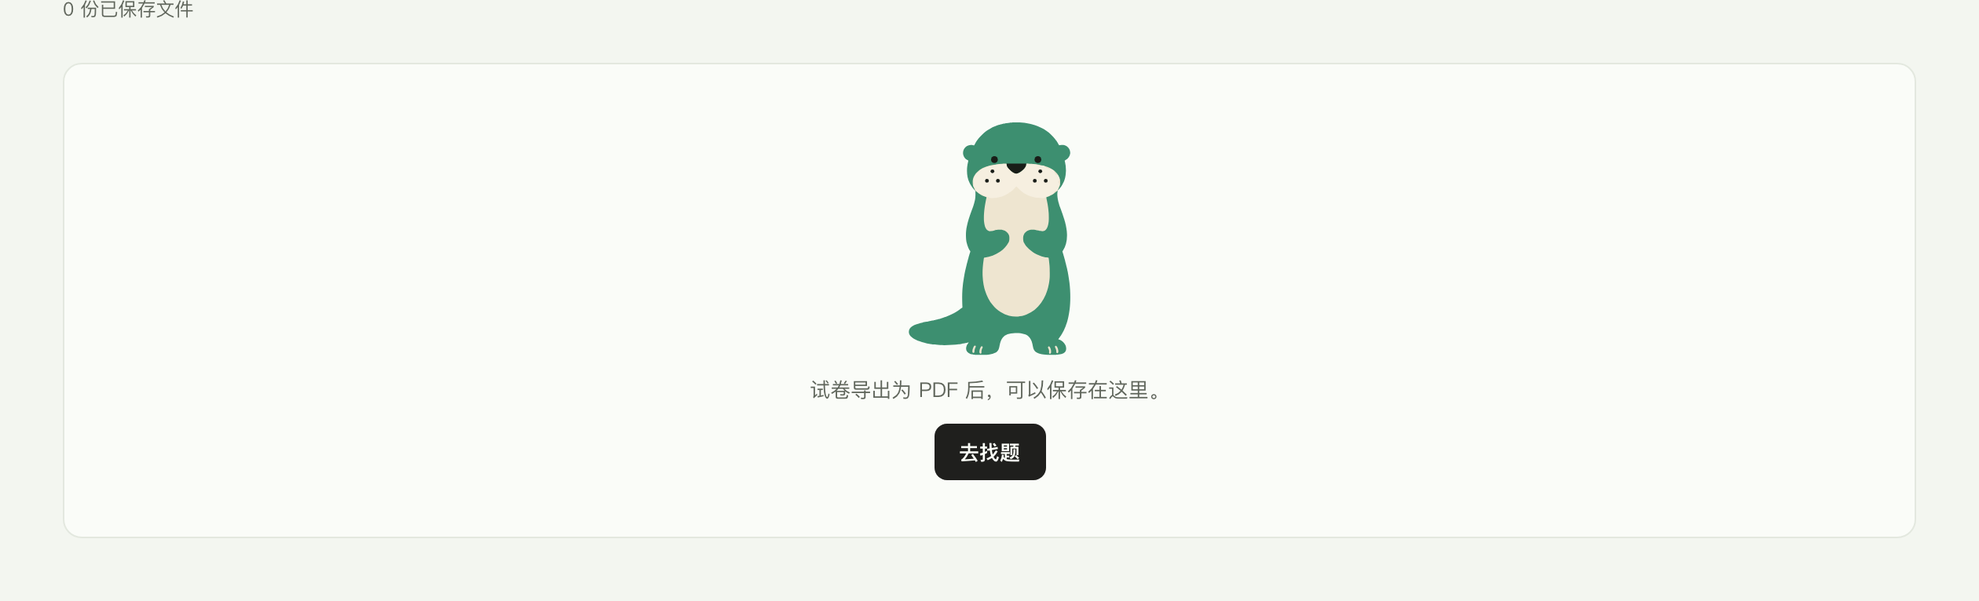
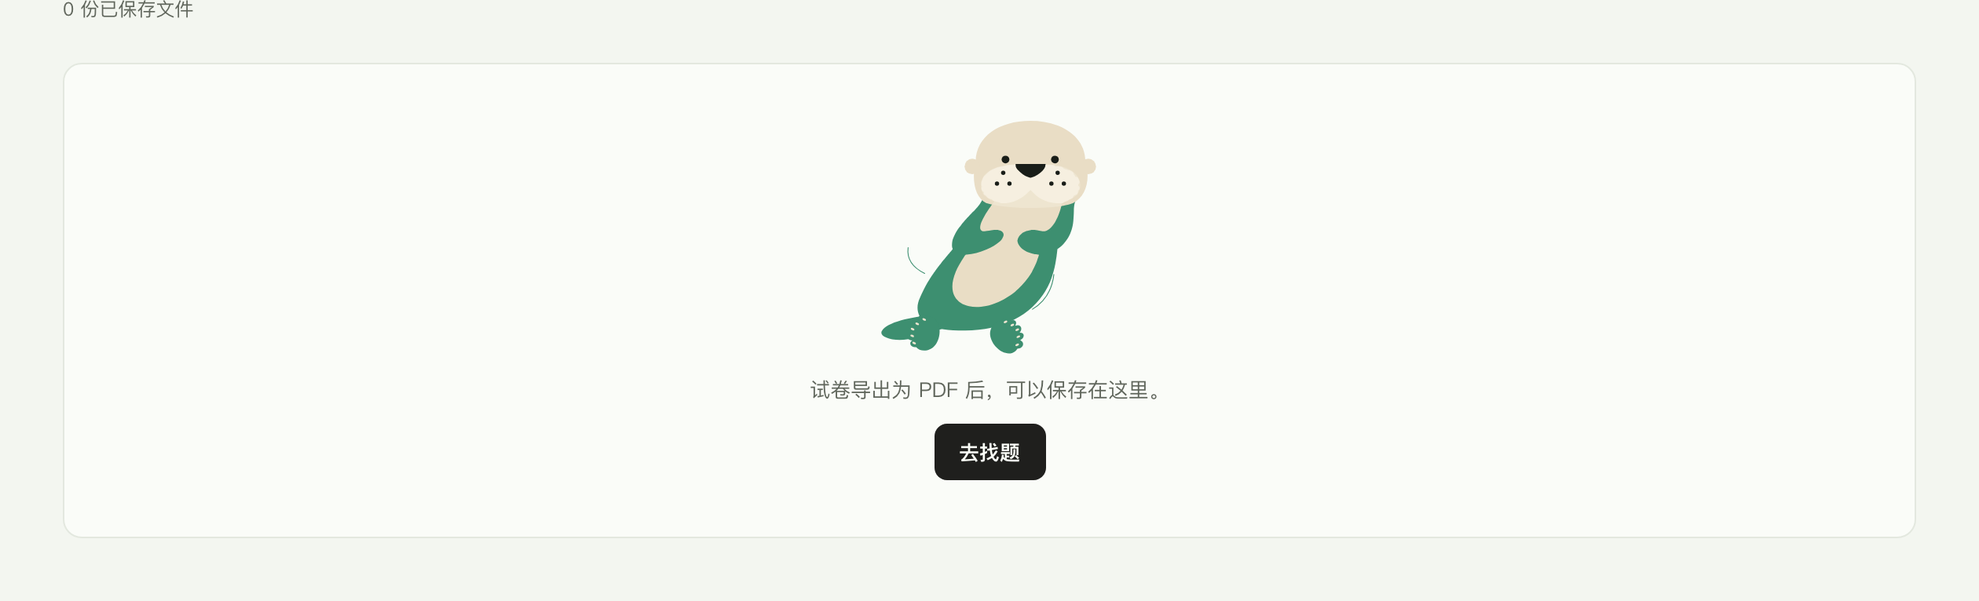
brand: Swap in the sea otter master with the Owner's whiter-half light colour and reshoot the real-page evidence

Changed region(s): [[0.4333, 0.1802, 0.5571, 0.6005]]

diff --git a/BRAND.md b/BRAND.md
@@ -115,13 +115,16 @@ Owner 2026-09-15 给图标定的理念是「简约、圆润但同时清爽、语
 
 | 名字 | 色值 | 差事 | 状态 |
 | --- | --- | --- | --- |
-| 竹青 | `#3D8F70` | 品牌主色：海獭身体、标志图形、插画主体 | 已定 |
+| 竹青 | `#3D8F70` | 品牌主色：海獭的背、手臂、尾巴和脚，只露头时垫的圆底和 App 图标底，标志图形、插画主体 | 已定 |
 | 深竹青 | `#2C6E56` | 要承载文字的品牌色：头像圆（白字）等位置。即网站现有的身份色 | 提案 |
-| 暖米白 | `#F6EFE0` | 第二色：海獭的脸、App 图标底 | 已定 |
-| 米白 | `#EEE5D0` | 海獭的肚皮和爪尖 | 已定 |
+| 沙白 | `#E9DDC5` | 海獭的毛色浅的那一片：头、耳朵、喉咙、胸口和肚子 | 已定（Owner 2026-10-13，第 28 条） |
+| 暖米白 | `#F6EFE0` | 海獭口鼻和脸颊的里层 | 已定 |
+| 米白 | `#EEE5D0` | 海獭口鼻的外圈、后脚的趾尖 | 已定 |
 | 墨 | `#191D18` | 海獭的眼睛点、鼻子、胡须点、状态插画里的石子；与界面正文同色 | 已定 |
 
 竹青和深竹青的 OKLCH 色相都在 166° 左右（明度 0.59 对 0.49），是同一条色阶上的两档。所以网站身份色不用在「跟着提亮」和「保持不变」之间二选一：竹青管图形，深竹青管要写字的地方。
+
+沙白、米白和暖米白的 OKLCH 色相都在 85°–88°（明度 0.90、0.92、0.95），是同一条米白色阶上的三档，沙白最深。沙白是 Owner 2026-10-13 从 D2 的浅沙 `#DCCBAA` 往暖米白走一半选定的（「往白 ½」，§4.2）；名字是 Droid 起的。2026-10-13 换成海獭版母版时，三个浅色的差事一起换了：原来是「暖米白：海獭的脸、App 图标底；米白：海獭的肚皮和爪尖」。
 
 实测对比度（WCAG）：
 
@@ -130,8 +133,11 @@ Owner 2026-09-15 给图标定的理念是「简约、圆润但同时清爽、语
 | 竹青 对 白 / 桌面 `#F3F6F0` / 内容面 `#FAFCF8` | 3.92 / 3.59 / 3.79 | 只够图形和大字（≥ 3:1），不能写正文 |
 | 深竹青 对 白 / 桌面 | 6.05 / 5.55 | 可以写字 |
 | 白字放在竹青上 | 3.79 | 小字不合格；带字的品牌色底一律用深竹青 |
-| 暖米白 对 桌面 | 1.05 | 几乎一样亮：海獭的米白部分永远要被竹青包住，不直接贴在桌面底上 |
-| 眼睛点（墨）对 竹青 | 4.36 | 图形可辨。原来的暖米白眼睛点是 3.42，又挨着同色的口鼻区，150px 时已经难认（M 画板） |
+| 暖米白 对 桌面 | 1.05 | 几乎一样亮：暖米白和米白不直接贴在桌面底上，海獭版里它们只在口鼻，四周由沙白托着（§4.7） |
+| 沙白 对 桌面 / 内容面 | 1.23 / 1.30 | 全身放在页面上时，头和耳朵的边看得见，但弱 |
+| 沙白 对 竹青 | 2.91 | 只露头时垫竹青，头的边清楚 |
+| 暖米白 / 米白 对 沙白 | 1.17 / 1.07 | 口鼻靠暖米白里层看得出；米白外圈和头几乎一样亮 |
+| 眼睛点（墨）对 沙白 | 12.69 | 清楚。海獭版的眼睛长在沙白的头上；水獭 v0 的眼睛在竹青上，是 4.36（原来的暖米白眼睛点是 3.42，又挨着同色的口鼻区，150px 时已经难认，M 画板） |
 | 鼻子（墨）对 暖米白 | 14.91 | 清楚 |
 
 **色必须有差事 · 已定**（原 DESIGN.md §2，2026-09-04 起执行，清点表 D30）：每一处非中性色都要能回答「它在帮老师做什么」，答不出就不上色。这条原来管界面；推到标志、海獭和插画是提案，上表的「差事」一栏就是照这条写的。
@@ -141,9 +147,9 @@ Owner 2026-09-15 给图标定的理念是「简约、圆润但同时清爽、语
 用色规则（提案）：
 
 - 竹青只给品牌图形：标志、海獭、插画。不给按钮、选中态、焦点环、链接，与 DESIGN.md §2「墨做动作」「墨绿只做身份」一致。
-- 暖米白和米白只用在角色和插画里，不做界面表面色。界面表面仍用 DESIGN.md §2 的 Daydream 桌面色阶；Owner 2026-08-28 实测后判定暖米底过暖（原 DESIGN.md「暖纸边界」，已删，清点表 D33）。
+- 沙白、暖米白和米白只用在角色和插画里，不做界面表面色。界面表面仍用 DESIGN.md §2 的 Daydream 桌面色阶；Owner 2026-08-28 实测后判定暖米底过暖（原 DESIGN.md「暖纸边界」，已删，清点表 D33）。
 - 语义色（成功、提醒、危险）不进品牌色，也不进海獭和插画。题型六色已删除（Owner 2026-10-13，清点表 D03），历史留在 git。
-- 不新增色相。插画需要更多层次时，先用这几色之间的组合；确实不够时在竹青色阶上加档。
+- 不新增色相。插画需要更多层次时，先用这几色之间的组合；确实不够时在竹青色阶或米白色阶上加档。
 
 ### 1.6 克制：哪里不出现品牌 · 提案
 
@@ -246,11 +252,11 @@ Owner 2026-09-15 给图标定的理念是「简约、圆润但同时清爽、语
 
 ## 4. IP 形象：海獭
 
-<img src="design/brand-2026-10-13/mascot/otter-front.svg" width="180" alt="正面母版 v0（还是水獭的形体，海獭版在画）">
+<img src="design/brand-2026-10-13/mascot/otter-front.svg" width="180" alt="海獭版母版：正面，仰躺漂着"> <img src="design/brand-2026-10-13/mascot/otter-head.svg" width="96" alt="海獭版母版：头像，垫竹青圆底"> <img src="design/brand-2026-10-13/mascot/app-icon.svg" width="96" alt="海獭版母版：App 图标，竹青圆角底">
 
 ### 4.1 角色设定 · 部分已定
 
-- **物种 · 已定（Owner 2026-10-13）**：海獭。原来定的是水獭，泛指，不做海獭（第 2 条）。Owner 拿真实照片对照时指出，用石头当工具是海獭的习性；Droid 一查，本文件的来历和状态表里，石头和仰躺漂浮都是从海獭借来的。Owner 认为海獭的习性在正向引导上更有借鉴价值，定为海獭（第 24 条）。现在的母版 v0 还是照水獭画的；海獭版已选定 D2（第 27 条），浅色定了就换（§4.2）。
+- **物种 · 已定（Owner 2026-10-13）**：海獭。原来定的是水獭，泛指，不做海獭（第 2 条）。Owner 拿真实照片对照时指出，用石头当工具是海獭的习性；Droid 一查，本文件的来历和状态表里，石头和仰躺漂浮都是从海獭借来的。Owner 认为海獭的习性在正向引导上更有借鉴价值，定为海獭（第 24 条）。母版已在 2026-10-13 换成海獭版（第 27、28 条，§4.2）。
 - **来历 · 提案**：现实里的海獭潜到海底找吃的。海底常常又暗又浑，它主要靠灵敏的前爪和胡须去摸。浮上水面以后，它仰躺漂着，把肚皮当桌子，把捞上来的贝壳摆在上面，再拿一块石头敲开。海獭是少数会用工具的哺乳动物；顺手的那块石头用完不扔，收进前肢下面的皮袋里，下次再用。我们把这几件事变成它在产品里的工作：在题海里摸到对的题，摆开给老师看，再把好题收好（§1.1 一句话）。会用工具不等于替老师拿主意：留哪道题，仍由老师定（下面「使命」一条）。形象上胡须只画成墨点（§4.2）。还有一个现成的画面：海獭睡觉时有时手拉手，免得漂散，可以讲陪伴；但容易画甜，用不用到画状态时再定（§4.9）。物种改成海獭以前，这里还写了水獭爱把小石子在爪子间抛着玩；那是亚洲小爪水獭这类小型水獭的习性，状态 01 跟着改了（§4.4）。
 - **使命 · 提案**：海獭必须有差事。它出场是为了把看不见的 AI 过程演出来：找、翻、递、收，以及如实说没找到。没有差事就不出场。老师等待时陪一下，结果出来时交代一下。不教学，不打分，不替老师做决定。
 - **性格 · 提案**：安静、好奇、手巧（§1.3）。
@@ -258,11 +264,12 @@ Owner 2026-09-15 给图标定的理念是「简约、圆润但同时清爽、语
 
 ### 4.2 造型 · 部分已定
 
-- **母版 v0 · 已定**：v2 正面，`design/brand-2026-10-13/mascot/otter-front.svg`。2026-10-13 换上了 M 画板定下的眼睛（见下面「眼睛」一条），同一目录下四个母版文件（正面、头像、App 图标、捧石子变体）的眼睛图层一起换过。同一天又换上记忆点方向 A 定下的 A2 胡须点（见下面「胡须」和「记忆点」两条），四个母版的胡须图层一起换过，`evidence/` 里的三张真实页面截图也用新母版重拍了。物种改成海獭以后（第 24 条），v0 仍是母版，直到海獭版母版画好、Owner 确认。v0 是照水獭画的：尾巴粗长渐尖，圆顶，耳朵长在头顶两侧。海獭版从 v0 出发，脸、配色和七个图层带过去，改头、耳朵和尾巴（见下面「记忆点」里的「物种改成海獭以后」）。四个母版文件的标题和注释还写着「水獭」，换成海獭版时一起改。
-- **部位与配色 · 已定**：身体竹青；脸（口鼻和脸颊）暖米白；肚皮和爪尖米白；眼睛点、鼻子和胡须点墨。母版里每个部位一个图层，图层名就是部位名（body、face、belly、nose、claws、eyes、whiskers）。
+- **母版 · 已定（海獭版，Owner 2026-10-13，第 27、28 条）**：`design/brand-2026-10-13/mascot/` 下三个文件。`otter-front.svg` 是正面，仰躺漂着（F2）；`otter-head.svg` 是头像，裁到胸口，垫竹青圆底；`app-icon.svg` 是 App 图标，竹青圆角底。形体照 Astra 第 2 轮的 S+，毛色是 D2，浅色用往白 ½（下面「记忆点」里的「海獭版母版」）。三个文件由 Droid 从 Owner 比过的那份矢量生成，渲染出来和比对图逐像素一致，只改了文件里的 id、标题和注释；`evidence/` 的三张真实页面截图用新母版重拍了。图层：body（竹青的背、手臂和尾巴，加上沙白的头和两只耳朵），belly（沙白的喉咙、胸口和肚子），muzzle（口鼻外圈，米白：肚皮那块形状落在头里的部分，用头的轮廓裁出），face（口鼻和脸颊里层，暖米白），nose（宽鼻，墨），claws（全身图里是两只带趾的后脚，竹青加米白趾尖），eyes，whiskers，water（两条水线，只在全身图里，可以单独隐藏）；头像另有 disc（竹青圆底），App 图标另有 tile（竹青圆角底）。
+- **母版 v0 · 已换下**：v0 是照水獭画的 v2 正面：站着，尾巴粗长渐尖，圆顶，耳朵长在头顶两侧。v0 期间定下的 e5 眼睛和 A2 胡须点原样带进海獭版。v0 的四个文件（正面、头像、App 图标、捧石子变体）留在 git 历史里，最后一版在提交 `c36560bb`。
+- **部位与配色 · 已定（Owner 2026-10-13，第 27、28 条改）**：竹青只留在背、手臂、尾巴和脚上；头、耳朵、喉咙、胸口和肚子连成一片沙白；口鼻两层，外圈米白、里层暖米白；后脚趾尖米白；眼睛点、鼻子和胡须点墨。只露头时（顶栏、App 图标）垫竹青。原来是「身体竹青；脸（口鼻和脸颊）暖米白；肚皮和爪尖米白」。图层名见上面「母版」一条。
 - **眼睛 · 已定（Owner 2026-10-13，M 画板选 e5）**：大小和位置用 J 画板的预设 p2：放大 1.15 倍，两眼各往脸中线收 24、往下移 12（母版坐标，半径 35.8）。颜色从暖米白改成墨。原因：暖米白眼睛对竹青只有 3.42:1，又挨着正下方同色的口鼻区，放进真实页面后 150px 已经难认，16px 完全消失，脸上最显眼的就成了鼻子和胡须点；墨色眼睛到 16px 还看得见，和鼻子、胡须点一起组成一张脸。几档大小和位置的差别在真实页面里几乎看不出。
 - **胡须 · 已定（Owner 2026-10-13）**：胡须只画成口鼻上的墨点，不画胡须线（第 13 条：改文档，不改形象）。表情和动作里不再写「胡须前伸」「胡须轻动」。点的排法按记忆点方向 A 换成 A2（第 23 条）：每颊三个点排成一个 ∴（「所以」），一上两下，是等边三角形，点心距 116，点半径 20（母版坐标）；三角的中心和原来三个点的中心重合。
-- **空手 · 已定**：基础形象空手，两只爪子分开搭在胸前。捧石子的变体 `design/brand-2026-10-13/mascot/otter-front-pebble.svg` 只给状态插画作参考。
+- **空手 · 已定**：基础形象空手，两只爪子分开搭在胸前。海獭版仰躺漂着，两只前爪收在胸口。原来另有一个捧石子的变体，只给状态插画作参考；它是照水獭画的（站着捧石子），换母版时 Droid 把它从 `mascot/` 拿掉了，留在提交 `c36560bb` 里。海獭捧石头的样子到画状态插画时从海獭版母版画（§4.4）。
 - **记忆点 · 进行中（主题 1）**：Owner 2026-10-13 担心现在的样子没有记忆点，定为下一件事，排在三视图前面。
   - **诊断 · 提案（Droid，见 Paper「基线测试」画板）**：能被记住的只有颜色和米白口鼻。全身剪影靠那条粗长的尾巴，还看得出是水獭一类；头像剪影只剩圆顶加两侧小圆耳，小熊、海豹、仓鼠都说得通。头像到 32px 以下只剩眼睛、鼻子和米白口鼻；头像母版是方形裁切，放进圆形头像会切掉耳朵外缘。以后做教育 agent，最常出现的是头像，所以记忆点最好落在头上。单靠颜色也撑不住：教育类的绿色吉祥物，很多人先想到多邻国的绿猫头鹰。
   - **四个方向 · 按顺序一个一个试（顺序 Owner 定；物种改成海獭以后改过，见下面「物种改成海獭以后」）**，每个只改一处：
@@ -279,7 +286,7 @@ Owner 2026-09-15 给图标定的理念是「简约、圆润但同时清爽、语
     - D 探头出场：不改样子，规定它总从卡片或页面边缘探头，像刚浮出水面。§4.7 的登录页和 §4.4 的状态 05 已经在探头，要做的是把它定成所有出场的规矩。
       - **物种改成海獭以后**：排在海獭版母版之后试（Owner 2026-10-13，第 25 条）。提案（Droid）：海獭本来就住在水里，「从水里浮上来」比水獭更自然；如果仰躺漂着当基础形象，D 可能直接定成出场的规矩。
   - **物种改成海獭以后 · 已定（Owner 2026-10-13 同意 Droid 的提议，第 25 条）**：先把母版改成海獭，再接着试记忆点。顺序改成：A（已定）→ 海獭版母版（并入 B）→ D → 5 秒测试；C 作废。
-    - **海獭版母版 · 进行中（Owner 已选 D2，浅色再白多少还在比）**：从现在的母版（e5 眼睛、A2 胡须点）出发，照真实海獭改形体，最多来回两轮（第 20 条），第 2 轮是最后一轮。
+    - **海獭版母版 · 已定，已换（Owner 2026-10-13，第 27、28 条）**：从现在的母版（e5 眼睛、A2 胡须点）出发，照真实海獭改形体，最多来回两轮（第 20 条），第 2 轮是最后一轮。
       - **原样带过去**：眼睛、鼻子、∴ 胡须点，§1.5 的颜色，七个部位的图层名，平涂无描边，基础形象空手、爪子搭在胸前。
       - **要改**：头圆而宽，耳朵小而低，几乎贴着头；尾巴短而扁，不再粗长渐尖。这会改母版形体（§7 第 3 条）和头身比例（§4.9），所以要等 Owner 确认才换母版。
       - **要并排试**：脸的米白要不要往上扩，包住眼睛。真实海獭的脸常发白，但 v3、v4 的骨白脸包住眼睛像土匪（第 3 条），所以两版都画，放进真实页面再判断。后脚画不画成鳍。站着还是仰躺漂着当基础形象：海獭站着时没有长尾巴撑剪影，可能比水獭更难认；仰躺漂着、爪子搭在胸前，是海獭最认得出的样子。
@@ -295,7 +302,8 @@ Owner 2026-09-15 给图标定的理念是「简约、圆润但同时清爽、语
       - **已定（Owner 2026-10-13，第 27 条）**：Owner 看过两人的第 2 轮后说「那我决定是你推荐的那个」，即上一条 Droid 的建议：毛色用 D2，头、喉咙、胸口、肚子连成一片浅色，竹青只留在背、手臂、尾巴和脚上；只露头时（顶栏、App 图标）垫竹青；宽鼻、侧耳、尾巴、带趾的脚和 F2 照 Astra 的 S+；换成海獭版母版。
       - **D2 往白调 · Droid（2026-10-13）**：Droid 开始换母版时，Owner 又问：「W+ 跟 D2 之间有没有搞头？W+ 够白……D2 是沙白，能不能沙白多一点点，再白多一丢丢？」Droid 不动形体，只把那片浅色沿 OKLCH 从浅沙往暖米白走了三档：往白 ¼ `#E2D4B7`、往白 ½ `#E9DDC5`、米白 `#EEE5D0`。走到四分之三正好落在米白上，所以第三档直接用色板里的米白。三档和 D2、W+ 一起放进登录页 240px、空态 150px、顶栏 28px 和 App 图标。结果：只露头时垫着竹青，越白越清楚，对竹青从浅沙的 2.46 升到往白 ½ 的 2.91、米白的 3.12。全身直接放在页面上时，越白，头顶和耳朵的边越淡，对桌面从 1.46 降到往白 ½ 的 1.23、米白的 1.15，W+ 是 1.05。口鼻也越来越不显：往白 ½ 还看得出（暖米白对头 1.17）；到米白，口鼻外圈和头同色，只剩里面一小块暖米白（1.09），口鼻几乎没了；再往白就是 W+，外圈反过来比头深。往白 ¼ 和 D2 几乎看不出差别。画稿在 Paper「记忆点 · 海獭版母版 · Droid · D2 往白调（Owner 追问）」。
       - **建议 · 提案（Droid）**：用往白 ½：比 D2 明显白，三个页面里头的边和口鼻都还在。另一个选法是米白：一种颜色都不加，代价是口鼻几乎看不出，头的边也开始发虚。
-      - **还没定**：那片浅色用哪一档（浅沙、往白 ¼、往白 ½、米白）。定了以后 Droid 换母版文件，重拍 `evidence/` 的三张截图。跟着要改的：§1.5 的色板（浅沙和往白各档都是米白色阶上加深的一档，OKLCH 色相约 84°–88°，和米白、暖米白相同，不是新色相，但 §1.5 只说过在竹青色阶上加档；选米白就不加颜色，只改米白的差事）；本节已定的「部位与配色」；§4.7 的贴底规则（包住口鼻的从竹青换成那片浅色，浅色的头直接贴页面），以及头像和 App 图标的底色（垫竹青）；§4.9「永远保留」里的「竹青身体，暖米白口鼻和脸颊，米白肚皮」和「小墨鼻」，以及「永远不做」里的「新增颜色」。
+      - **已定（Owner 2026-10-13，第 28 条）**：Droid 把四档摆给 Owner 选，Owner 选了往白 ½ `#E9DDC5`，即 Droid 的建议。§1.5 把它记作沙白，是米白色阶上最深的一档，色相和米白、暖米白相同。
+      - **换母版（Droid，2026-10-13）**：Droid 随后换了 `mascot/` 的母版文件，重拍了 `evidence/` 的三张截图（上面「母版」一条），并跟着改了 §1.5 的色板和对比度、本节的「部位与配色」、§4.7 的贴底规则和头像、App 图标的底色、§4.9 的「永远保留」和「永远不做」。改动里直接复述 Owner 决定的部分记为已定，Droid 推出来的规则记为提案。
     - **撞车**：海獭形象的熟人比水獭多，比如 Chiikawa 里的海獭、《ぼのぼの》的主角。下面「评估」的一句话描述，要能把我们和它们分开。
   - **评估 · 提案**：剪影；头像圆裁到 32px；一句话描述（不提颜色，也能把它和别的海獭分开）；真实页面（登录页 240px、顶栏 28px、空态 150px）；能不能演 agent 的状态（想、找到、没找到）。最后 Owner 找两三个人看 5 秒，凭记忆画出来。
 - **三视图与比例 · 未开始（记忆点定了再做）**：正面、侧面、背面、四分之三侧，加比例规范，以头高为单位写头身比、眼距、耳位、爪长、尾长。这是后面所有状态图不走样的前提。
@@ -352,18 +360,20 @@ Owner 2026-09-15 给图标定的理念是「简约、圆润但同时清爽、语
 - **出场**：只在等待和结果时刻，包括空态、找题加载、请老师确认、AI 没找到、组卷或导出完成、登录页、App 图标。
 - **不出场**：读题、做题、编辑卷面时不出现；卷面上永远不出现。
 - **一屏一只**：同一屏最多出现一只海獭。
-- **贴底规则**：米白部分必须被竹青包住，不直接贴桌面底色（§1.5）。
+- **贴底规则**：
+  - **只露头时垫竹青 · 已定（Owner 2026-10-13，第 27 条）**：顶栏、App 图标这类只露头的地方，头放在竹青圆底或竹青圆角底上。全身时沙白的头和肚子直接放在页面上，靠竹青的身子托着。
+  - **浅色怎么贴页面 · 提案（Droid）**：能直接贴桌面底色的浅色只有沙白（对桌面 1.23）；暖米白和米白只放在口鼻里，四周由沙白托着，不直接贴桌面底色（§1.5）。原来的规则是「米白部分必须被竹青包住」，海獭版的头不再由竹青包住。
 
-尺寸以 K 画板的真实页面试用为准：
+尺寸以真实页面试用为准（K 画板定的尺寸，2026-10-13 用海獭版母版重拍）：
 
 | 位置 | 形式 | 尺寸 |
 | --- | --- | --- |
-| 顶栏标志 | 头像 | 28px 高，以后换成 §3.1 的图形标志 |
-| App 图标 | 头像加暖米白圆角底 | 192 / 64 / 32 / 16；32 和 16 要用简化版 |
+| 顶栏标志 | 头像，垫竹青圆底 | 28px 高，以后换成 §3.1 的图形标志 |
+| App 图标 | 头像加竹青圆角底 | 192 / 64 / 32 / 16；32 和 16 要用简化版 |
 | 空态 | 全身 | 150px 高 |
-| 登录页 | 全身，站在登录框后面探头，爪子正好搭在框沿 | 240px 高 |
+| 登录页 | 全身，在登录框后面露出头和胸口，前爪就在框沿上方 | 240px 高 |
 
-<img src="design/brand-2026-10-13/evidence/login.png" width="340" alt="登录页试用"> <img src="design/brand-2026-10-13/evidence/my-space-empty.png" width="520" alt="个人空间空态试用">
+<img src="design/brand-2026-10-13/evidence/login.png" width="340" alt="登录页试用（海獭版母版）"> <img src="design/brand-2026-10-13/evidence/my-space-empty.png" width="520" alt="个人空间空态试用（海獭版母版）"> <img src="design/brand-2026-10-13/evidence/topbar.png" width="300" alt="顶栏试用（海獭版母版）">
 
 ### 4.8 两种画法 · 提案
 
@@ -375,9 +385,9 @@ Owner 2026-09-15 给图标定的理念是「简约、圆润但同时清爽、语
 
 **永远保留**
 
-- 竹青身体，暖米白口鼻和脸颊，米白肚皮
-- 墨点眼、小墨鼻、墨胡须点（每颊三个点排成 ∴，§4.2）
-- 小圆耳、短前爪、短而扁的尾巴（2026-10-13 按海獭改；原来是水獭的粗而渐尖。具体形状以海獭版母版为准，§4.2）
+- 竹青的背、手臂、尾巴和脚；沙白的头、耳朵、喉咙、胸口和肚子连成一片；口鼻两层，米白外圈、暖米白里层（2026-10-13 换海獭版母版时改，第 27、28 条；原来是「竹青身体，暖米白口鼻和脸颊，米白肚皮」）
+- 墨点眼、宽墨鼻、墨胡须点（每颊三个点排成 ∴，§4.2）。宽鼻是 2026-10-13 定的（第 27 条），原来是「小墨鼻」
+- 小圆耳长在头的两侧、短前爪、带趾的短后脚、短而扁的尾巴（2026-10-13 按海獭改；原来是水獭的粗而渐尖。形状以海獭版母版为准，§4.2）
 - 平涂，无描边，无渐变，无纹理
 - 头身比例与母版一致
 - 基础形象空手，爪子搭在胸前；石子只在状态插画里出现
@@ -387,7 +397,7 @@ Owner 2026-09-15 给图标定的理念是「简约、圆润但同时清爽、语
 - 腮红、眼睛高光、眉毛、张嘴大笑、流泪
 - Q 版大头小身体、超大眼睛
 - 整套拟人衣服，拿手机或电脑
-- 新增颜色；身体用墨黑（像戴面具）；道具用竹青（和身体糊在一起）
+- 新增 §1.5 以外的颜色（沙白是 Owner 2026-10-13 选定后加进 §1.5 的，第 28 条）；身体用墨黑（像戴面具）；道具用竹青（和身体糊在一起）
 - 出现在卷面上，或打断读题、编辑
 - 用对话气泡讲道理、喊口号
 
@@ -486,12 +496,13 @@ Owner 2026-09-15 给图标定的理念是「简约、圆润但同时清爽、语
 24. **物种改成海獭**：Owner 拿来 8 张照片作参考，指出其中 2 张是海獭，用石头当工具也是海獭的习性；Droid 一查，本文件的来历和状态表里，石头和仰躺漂浮都是从海獭借来的。Owner 认为海獭的习性在正向引导上更有借鉴价值；听完 Droid 列的好处和代价，说「那就还是海獭」。第 2 条的「不做海獭」作废。母版 v0 是照水獭画的，海獭版母版由 Astra 先画（§4.2）。跟着改的 §1.1 世界、§1.4 第 5 条、§2 的典故和口号、§4.1 来历、§4.4 状态 01 和 03、§4.9 尾巴，都是 Droid 的提案。记忆点的新顺序也是 Droid 提的，Owner 随后同意了（第 25 条）。
 25. **记忆点的新顺序**：物种改成海獭以后，Owner 同意 Droid 的提议，记忆点改按这个顺序走：A（已定）→ 海獭版母版（方向 B 并进来）→ 方向 D → 5 秒测试。方向 C 毛笔尾作废，因为海獭的尾巴短而扁，做不成毛笔。这一条改的是第 21 条的顺序。同一天，Paper 文件从「全科题库品牌 · 水獭」改名为「全科题库品牌 · 海獭」。
 26. **海獭版母版第 2 轮**：Owner 看过第 1 轮（Astra 的 H1、H2，Droid 的 H2b、H3，都放进了真实页面）后说有点像海豹，四周留绿边也纠结；Droid 收回「以 H2 为底、四周留绿边」的建议。Owner 定第 2 轮三条路都画，放进同样的真实页面比：① 白头换成浅沙色（候选 `#DCCBAA`），② 白头保持暖米白、只露头时垫竹青底，③ 绿头 H1 作对照；每条路再试一版大一号的鼻子。三条都把耳朵画得伸出脸颊、尾巴多露一点、后脚画成带趾的脚，身体这一轮继续画 F2。浅沙色是第 20 条「只用 §1.5 的颜色」的一次例外，只在这一轮试。选哪条路、鼻子大不大、身体用 F2 还是 S、换不换母版，第 2 轮看过再定；到时候跟着要改的 §1.5、§4.7、§4.9 记在 §4.2。
-27. **海獭版母版选 D2**：Owner 看过 Astra 和 Droid 的第 2 轮后说「那我决定是你推荐的那个」，即 Droid 的建议：毛色用 D2，头、喉咙、胸口、肚子连成一片浅色，竹青只留在背、手臂、尾巴和脚上；只露头时（顶栏、App 图标）垫竹青；宽鼻、侧耳、尾巴、带趾的脚和 F2 照 Astra 的 S+；换成海獭版母版。随后 Owner 问 W+ 和 D2 之间能不能再白一点，那片浅色用哪一档还没定，母版文件等颜色定了再换（§4.2）。
+27. **海獭版母版选 D2**：Owner 看过 Astra 和 Droid 的第 2 轮后说「那我决定是你推荐的那个」，即 Droid 的建议：毛色用 D2，头、喉咙、胸口、肚子连成一片浅色，竹青只留在背、手臂、尾巴和脚上；只露头时（顶栏、App 图标）垫竹青；宽鼻、侧耳、尾巴、带趾的脚和 F2 照 Astra 的 S+；换成海獭版母版。随后 Owner 问 W+ 和 D2 之间能不能再白一点，浅色见第 28 条。
+28. **海獭版母版的浅色**：Droid 把那片浅色从浅沙往暖米白走了三档（往白 ¼、往白 ½、米白），和 D2、W+ 一起放进真实页面。Owner 看过后选往白 ½ `#E9DDC5`，即 Droid 的建议；§1.5 记作沙白，是米白色阶上最深的一档。母版换成海獭版，`evidence/` 重拍（§4.2）。
 
 ## 8. 接下来（按顺序）
 
 1. Owner 审 2026-10-13 的三份文件改写和清点表的更新。Owner 2026-10-13 选先本地提交、不推送；PR 等记忆点定了再一起开。
-2. 记忆点（主题 1，Paper 页「主题 1 · 记忆点」）：按第 20 条的方式和 Astra 协作（§4.2）。方向 A 已定（第 23 条）。物种改成海獭以后（第 24 条），先做海獭版母版，方向 B 并进来。第 1 轮 Astra 和 Droid 都交了；Owner 看了说像海豹，定第 2 轮画三条路，每条再试大鼻子（第 26 条，§4.2）。第 2 轮两人也都交了：Astra 推荐 S+ 浅沙头，Owner 看了说像「绿衣服，然后沙环领」；Droid 推荐 D2，把肚皮也换成浅沙，头和肚子连成一片。Owner 选了 D2（第 27 条），又问能不能再白一点；Droid 做了往白三档（§4.2），现在轮到 Owner 定用哪一档。定了以后换母版、重拍 evidence。再往后是方向 D → 5 秒测试，方向 C 作废（第 25 条）。
+2. 记忆点（主题 1，Paper 页「主题 1 · 记忆点」）：按第 20 条的方式和 Astra 协作（§4.2）。方向 A 已定（第 23 条）。物种改成海獭以后（第 24 条），先做海獭版母版，方向 B 并进来。第 1 轮 Astra 和 Droid 都交了；Owner 看了说像海豹，定第 2 轮画三条路，每条再试大鼻子（第 26 条，§4.2）。第 2 轮两人也都交了：Astra 推荐 S+ 浅沙头，Owner 看了说像「绿衣服，然后沙环领」；Droid 推荐 D2，把肚皮也换成浅沙，头和肚子连成一片。Owner 选了 D2（第 27 条），又问能不能再白一点；Droid 做了往白三档，Owner 选了往白 ½（第 28 条）。母版已换成海獭版，evidence 已重拍（§4.2）。下一步是方向 D 探头出场，再往后是 5 秒测试，方向 C 作废（第 25 条）。
 3. 三视图与比例规范（主题 2，记忆点定了再做）。
 4. 五个状态：先用 Arrow 小批试画，再收成矢量。状态 03 递石头还是贝壳，到这一步定（§4.4）。
 5. 命名：长名单 → 短名单 → 查重 → 字标草稿放进真实页面。字标草稿做三版：Inter、Paper Mono、在 Paper Mono 上改字（§3.3）。口号和名字一起定，要能跟着长到教育 agent 阶段（§1.2）。名字和形象的联系按海獭重看：「题塘」「獭祭」都对不上海獭（§2）。
